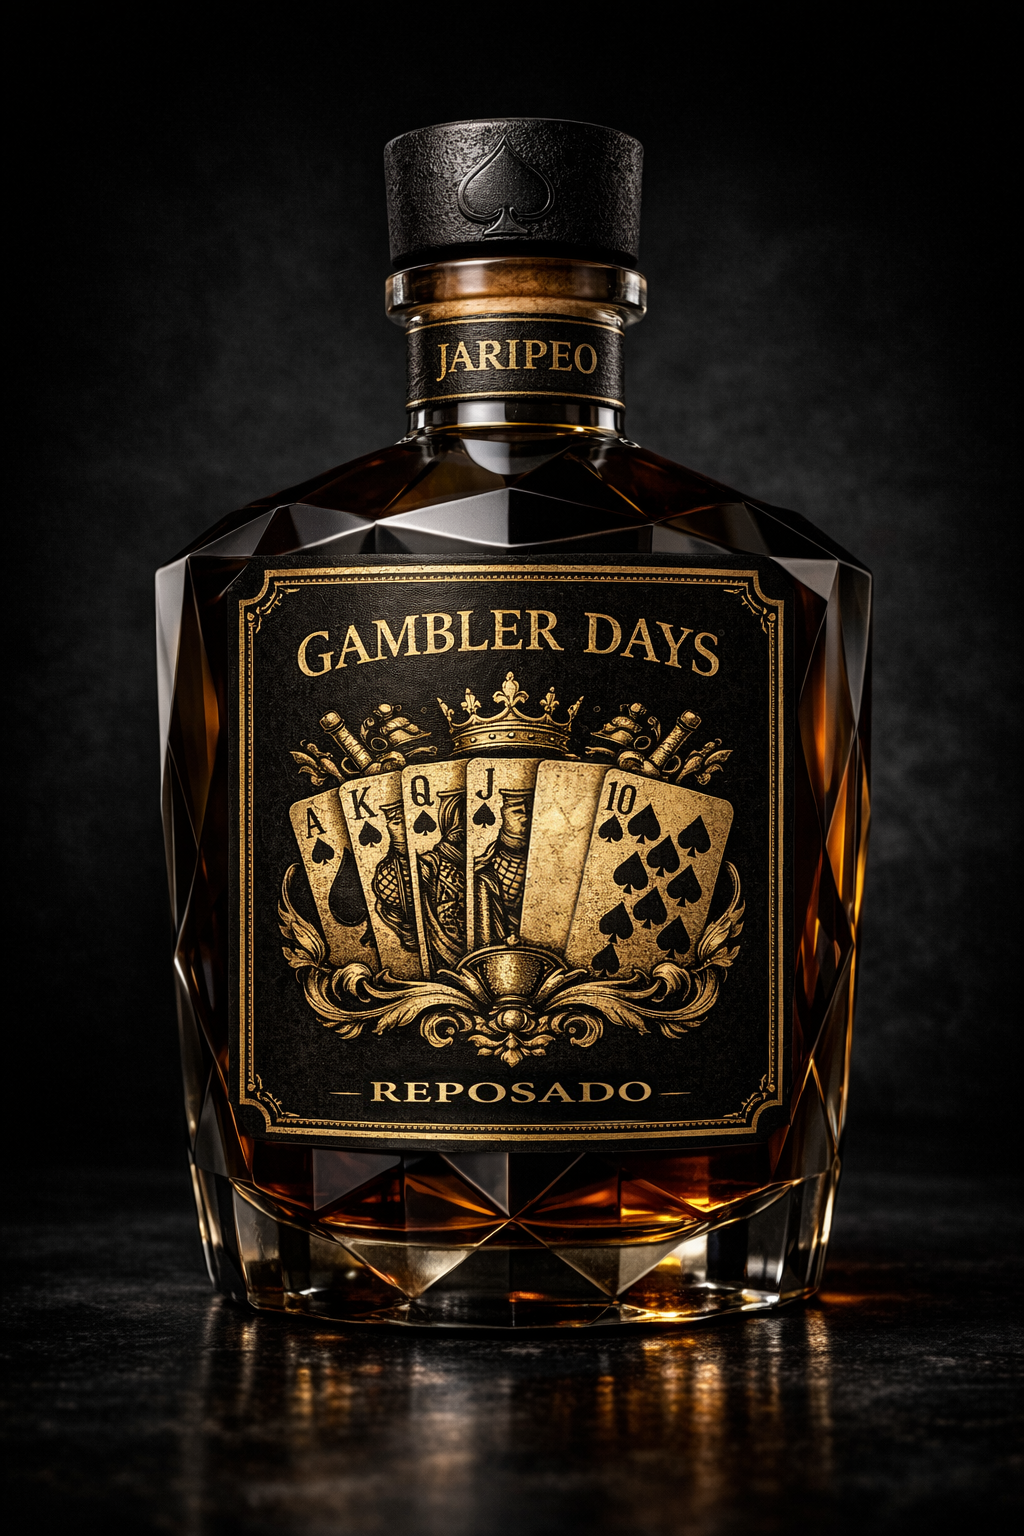
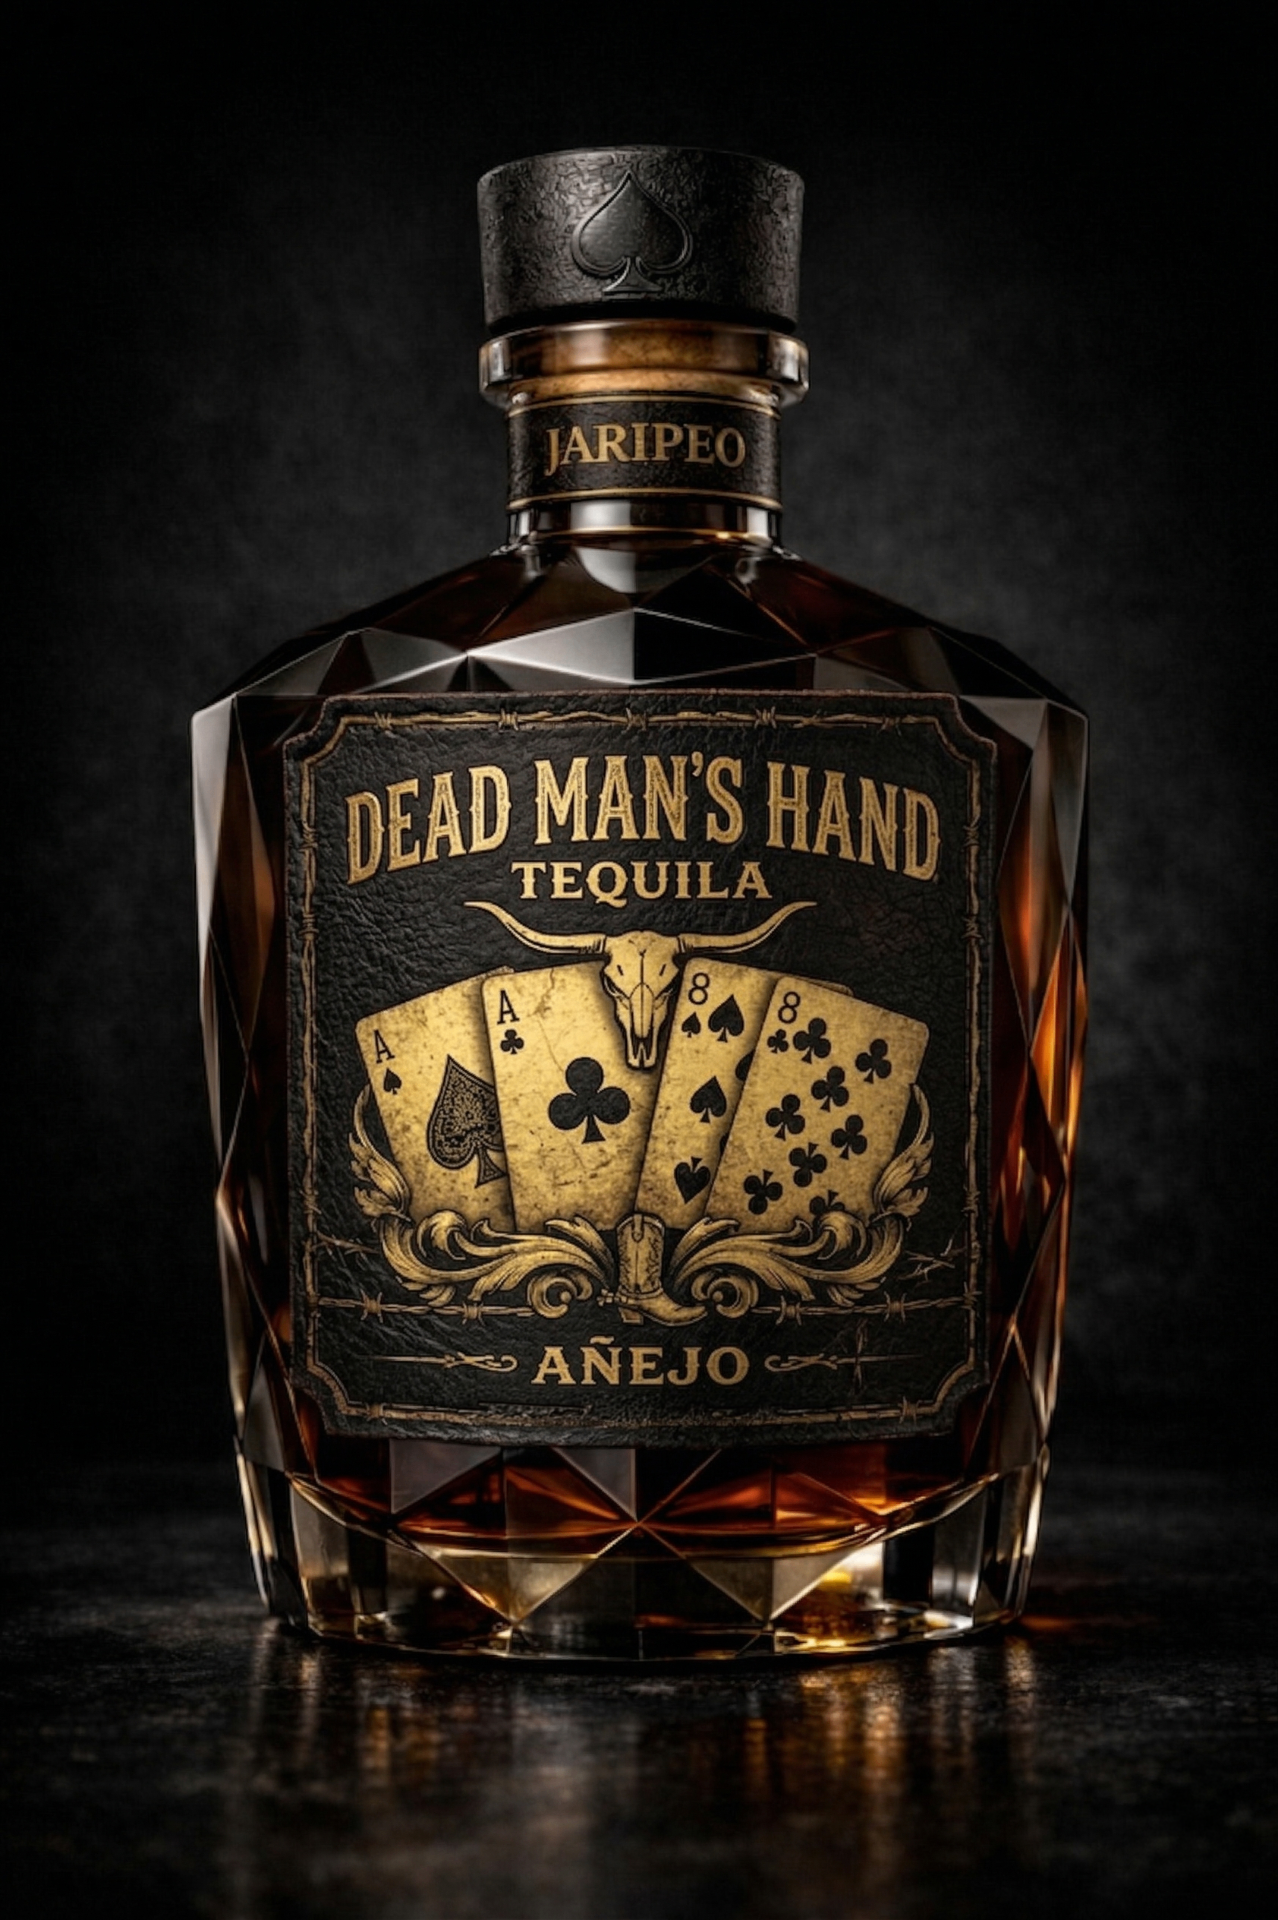
Changes

Changed region(s): [[0.1562, 0.0625, 0.875, 0.9375], [0.4062, 0.875, 0.4688, 0.9688], [0.7812, 0.7812, 0.8125, 0.8125]]

diff --git a/src/components/deck/SlideWhyMashbill.tsx b/src/components/deck/SlideWhyMashbill.tsx
@@ -34,10 +34,10 @@ export const SlideWhyMashbill = () => (
             <img src={gamblerDaysPlaceholder} alt="Gambler Days — Coming August" className="h-[480px] w-full object-contain mb-6" loading="lazy" />
             <div className="border-l-4 border-gold bg-background rounded-lg p-6 md:p-8 w-full">
               <span className="inline-block font-body text-xs tracking-[0.2em] text-background bg-gold rounded-full px-4 py-1 mb-4 font-semibold">DROP 2 — AUGUST</span>
-              <h3 className="font-headline text-foreground text-3xl md:text-4xl tracking-wide mb-3">GAMBLER DAYS</h3>
+              <h3 className="font-headline text-foreground text-3xl md:text-4xl tracking-wide mb-3">DEAD MAN'S HAND</h3>
               <div className="h-px bg-gold opacity-70 mb-3" />
               <p className="font-body font-bold text-foreground text-base mb-1">LIMITED EDITION SERIES</p>
-              <p className="font-accent text-subtext text-sm">Gambler Days • August 23–24 • Austin, TX</p>
+              <p className="font-accent text-subtext text-sm">Dead Man's Hand • August 23–24 • Austin, TX</p>
             </div>
           </div>
         </FadeIn>
